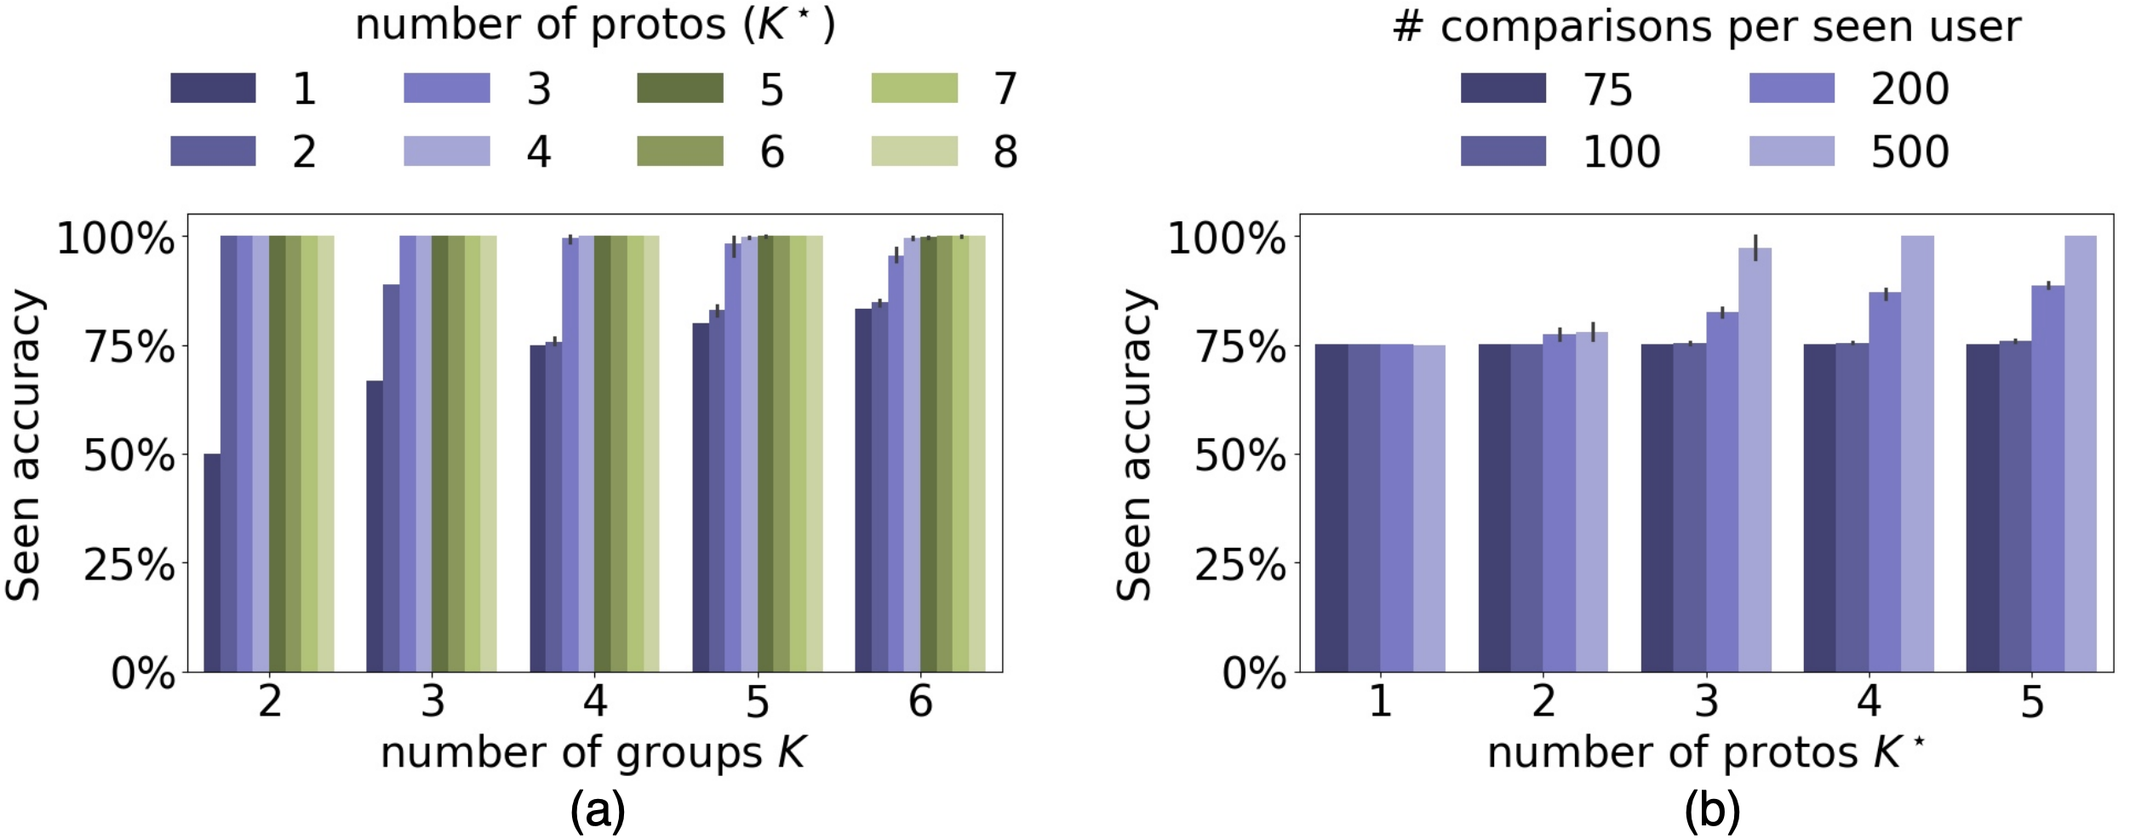
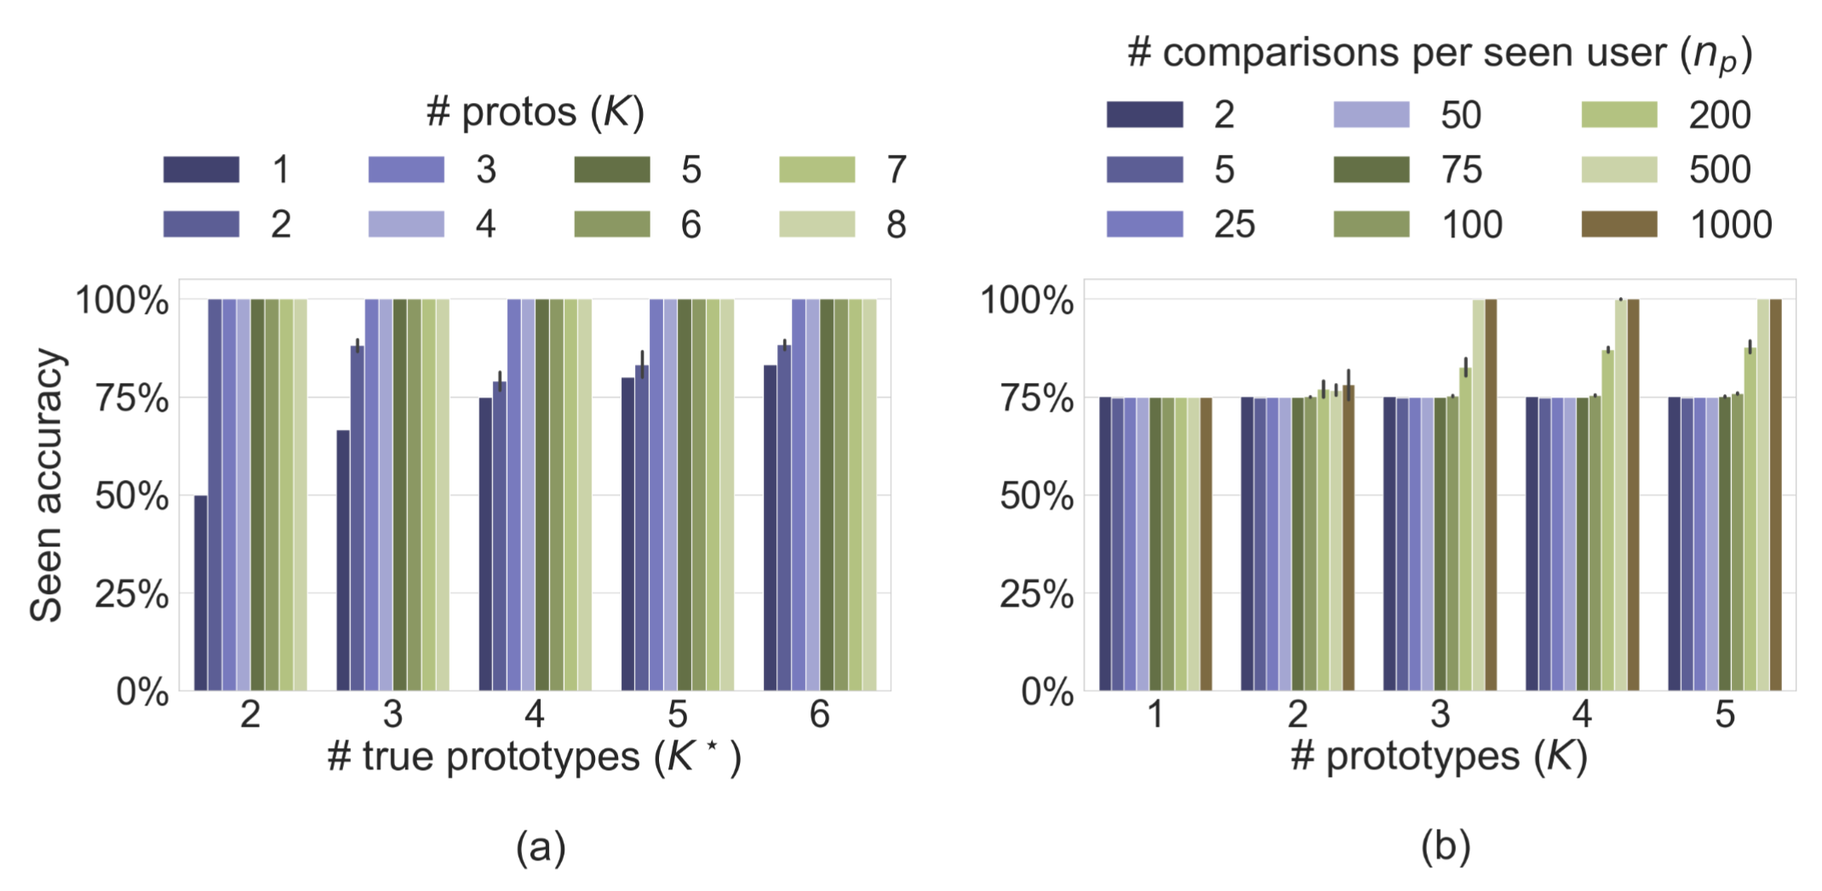
first round of edits

diff --git a/index.html b/index.html
@@ -76,7 +76,7 @@
               <a href="https://aniketrege.github.io/" target="_blank">Aniket Rege</a>,
             </span>
             <span class="author-block">
-              <a href="https://ramyakv.github.io/" target="_blank">Ramya Korakai Vinayak</a>
+              <a href="https://ramyakv.github.io/" target="_blank">Ramya Korlakai Vinayak</a>
             </span>
           </div>
           <!-- authors institute -->
@@ -111,7 +111,7 @@
                 </a>
               </span>
               <!-- Code Link. -->
-              <span class="link-block">
+              <!-- <span class="link-block">
                 <a href="https://github.com/ChenDaiwei-99/PAL-Pluralistic-Alignment-Framework"
                    class="external-link button is-normal is-rounded is-dark"
                    target="_blank"
@@ -121,7 +121,7 @@
                   </span>
                   <span>Code</span>
                   </a>
-              </span>
+              </span> -->
               <!-- Dataset Link. -->
               <span class="link-block">
                 <a href="https://huggingface.co/datasets/ramya-ml/pickapic-embeds"
@@ -146,10 +146,16 @@
   <div class="container is-max-desktop">
     <div class="hero-body">
       <h4 class="subtitle has-text-centered">
-        🔥<span style="color: #ff3860">[NEW!]</span> <b>PAL Framework</b> has been accepted by 2024 ICML workshop 
-        (<a href="https://sites.google.com/view/tf2m" target="_blank">TF2M</a> and <a href="https://sites.google.com/view/mhf-icml2024" target="_blank">MFHAIA</a>)
+        🔥<span style="color: #ff3860">[NEW!]</span> <b>PAL</b> has been accepted at 2024 ICML workshops:
+        <a href="https://sites.google.com/view/tf2m" target="_blank">TF2M</a> and <a href="https://sites.google.com/view/mhf-icml2024" target="_blank">MFHAIA</a>.
       </h4>
       <img src="./static/images/PAL-teaser.png" alt="Description of the image">
+      <p>
+        PAL is a framework designed to learn reward models for alignment that suit diverse, heterogeneous human preferences. For some user \(i\), the probability of 
+        preferring the left item \(x_l\) to right item \(x_r\) given conditioning \(x_c\) is given by reward model \(r_\theta\). PAL learns \(r_\theta\) with a mixture
+        modeling approach over \(K\) prototypes that represent \(K\) subgroups - this captures the shared structure of human preferences (subpopulations), while also 
+        suiting the specific differences between individual people.
+      </p>
     </div>
   </div>
 </section>
@@ -167,14 +173,14 @@
             These methods generally suffer from assuming a universal preference shared by all humans, which lacks the flexibility of adapting to plurality of opinions and preferences.
           </p> -->
           <p>
-            In this work, we propose PAL, a framework to model human preference complementary to existing pretraining strategies, which incorporates plurality from the ground up.
-            We propose using the ideal point model as a lens to view alignment using preference comparisons.
-            Together with our novel reformulation and using mixture modeling, our framework captures the plurality of population preferences while simultaneously learning a common preference latent space across different preferences, which can few-shot generalize to new, unseen users.
-            Our approach enables us to use the penultimate-layer representation of large foundation models and simple MLP layers to learn reward functions that are on-par with the existing large state-of-the-art reward models, thereby enhancing efficiency of reward modeling significantly. 
-            We show that PAL achieves competitive reward model accuracy compared to strong baselines on 1) Language models with Summary dataset ; 2) Image Generative models with Pick-a-Pic dataset ; 3) A new semisynthetic heterogeneous dataset generated using Anthropic Personas. 
+            We propose PAL, an alignment framework complementary to existing pretraining strategies, which is designed to model the diverse, heterogeneous nature (<em><a href="https://arxiv.org/abs/2402.05070">plurality</a></em>) of human preferences from the ground up.
+            Contrary to the status-quo paired preference <a href="https://www.jstor.org/stable/2334029">Bradley-Terry model</a> used by many popular LLMs and LVMs today, we reframe the alignment problem using <a href="https://psycnet.apa.org/record/1951-00045-001">Coombs' ideal point model</a> and a mixture modeling approach. 
+            PAL captures the plurality of the preferences of a population of users while simultaneously learning a shared preference latent space, which can few-shot generalize to new, unseen users.
+            PAL demonstrates the efficacy of cheap and efficient reward modeling - our approach learns reward functions via simple MLP layers (on top of the penultimate-layer dense representations learned by large pretrained foundation models) that are on-par with the existing large state-of-the-art reward models which are typically in the billion parameter regime. 
+            We show that PAL achieves competitive reward model accuracy compared to strong baselines on 1) Language models with OpenAI's <a href="https://github.com/openai/summarize-from-feedback">TL;DR dataset</a> ; 2) Text-to-Image models with the <a href="https://stability.ai/research/pick-a-pic">Pick-a-Pic dataset</a> ; 3) A new semi-synthetic heterogeneous dataset generated using <a href="https://www.evals.anthropic.com/">Anthropic Personas</a>. 
           </p>
           <p>
-            Finally, our experiments also highlight the shortcoming of current preference datasets that are created using rigid rubrics which wash away heterogeneity, and call for more nuanced data collection approaches.
+            Our experiments also highlight a key shortcoming of current preference datasets that are created using rigid rubrics which wash away heterogeneity, and we make a case for more nuanced data collection approaches.
           </p>
         </div>
       </div>
@@ -190,28 +196,78 @@
     <hr class="custom-line">
     <div class="columns is-centered">
       <div class="column is-six-fifths">
-        <h2 class="title is-3 has-text-centered"> <img src="./static/images/icon-yes-no.png" style="width: 5%; height: auto;">&nbsp; What is Ideal Point Model ?</h2>
+        <h2 class="title is-3 has-text-centered"> <img src="./static/images/icon-yes-no.png" style="width: 5%; height: auto;">&nbsp; What is the Ideal Point Model ?</h2>
         <img src="./static/images/ideal-point-model.png" alt="Description of the image">
         <p>
-          The ideal point model is a statistical model that is used to analyze the preferences of individuals or groups.
+          The ideal point model (<a href="https://psycnet.apa.org/record/1951-00045-001">Coombs, 1950</a>) is a statistical model that is used to analyze the preferences of individuals or groups.
           It is broadly used in political science, sociology, and economics to model the preferences of voters, legislators, or other decision-makers.
-          The ideal point model assumes that each individual has an ideal point in a multidimensional space, and that the individual's preference for a particular alternative is a function of <strong style="color: #ff3860;">the distance between the alternative and the individual's ideal point</strong>.
+          The ideal point model assumes that <strong style="color: #ff3860;">each individual has an "ideal point"</strong> in some high-dimensional space \(\mathbb{R}^d\), and that the individual's preference for a particular alternative 
+          is a function of <b>the distance between the alternative and the individual's ideal point</b>. The ideal point model is well suited for heterogeneous preference learning, which we discuss below.
         </p>
       </div>
     </div>
-    <hr class="custom-line">
+    <!-- <hr class="custom-line"> -->
     <div class="columns is-centered">
       <div class="column is-six-fifths">
-        <h2 class="title is-3 has-text-centered"><img src="./static/images/icon-user-group.png" style="width: 5%; height: auto;">&nbsp; Mixture Modeling on Heterogeneous Human Preference</h2>
+        <h2 class="title is-3 has-text-centered"><img src="./static/images/icon-user-group.png" style="width: 5%; height: auto;">&nbsp; PAL: Mixture Modeling for Heterogeneous Preferences</h2>
         <img src="./static/images/PAL-models.png" alt="Description of the image">
         <p>
-          In reality, different people can have different preferences that are not just noisy perturbations of a universal model. That is, people can differ in systematically different ways. However, there are shared aspects across subgroups of people, e.g., owing to demographics, educational, socio-cultural, or other types of similarities. We propose a framework to capture human preferences by considering these differences and similarities 
-          by modeling the preferences of individuals with a low-rank model. In particular, we use <strong style="color: #ff3860;">a mixture modeling approach</strong> for capturing diverse preferences where we model each user as a convex combination of K prototypes. 
+          In reality, different people can have different preferences that are not just noisy perturbations of a universal model, i.e. <strong style="color: #ff3860;">people can differ in systematically different ways</strong>! 
+          People's preferences are not completely unique - there are shared aspects of preferences within <em>subgroups</em> of people, for example owing to similar demographics and educational, socio-cultural, or other types of similarities. 
+          PAL is designed to suit this structure of human preferences - in particular, we use <b>a mixture modeling approach</b> to capture diverse individual preferences across <b>\(K\) subgroups</b>, where each user's preference (ideal point) is a convex combination of:
+        </p>
+        <p>
+          <ul>
+            <li><b><br>&nbsp;Model A</b>: \(K\) prototypical ideal points.</li>
+            <li><b>&nbsp;Model B</b>: \(K\) protypical functions mapping input prompts to ideal points.</li>
+          </ul>
+        </p>
+        <p>
+          <br> Here the \(K\) prototypes represent the shared structure across subpopulations, while each users' weights \(W\) over the prototypes represent their individuality.
         </p>
       </div>
     </div>
     <hr class="custom-line">
-    <h2 class="title is-3 has-text-centered"><img src="./static/images/icon-dataset.png" style="width: 5%; height: auto;">&nbsp; Heterogeneous Semi-Synthetic Datasets</h2>
+    <h2 class="title is-3 has-text-centered"><img src="./static/images/icon-gaussian.png" style="width: 5%; height: auto;">&nbsp; Experiments: Gaussian Synthetic Dataset</h2>
+    <h3 class="title is-5 ">Hypothesis: if we create a synthetic dataset with a "ground truth" subpopulation structure (injecting heterogeneity), PAL should be able to learn these groups well.</h3>
+    <div class="columns is-centered">
+      <div class="column is-six-fifths">
+        <p>
+          Assume \( K^* \) "true" user prototypes \(\{\mathbf{p}_i\}_{i=1}^{K^*}\), where \(\mathbf{p}_i \sim \mathcal{N}(0,(1/d)I)\). We consider two settings: 
+        </p>
+        <br>
+        <p>
+          <ul>
+            <li>&nbsp;&nbsp; 1) <strong>Mixture</strong> setting: each user is located in the convex hull of \( K \) learned prototypes</li>
+            <li>&nbsp;&nbsp; 2) <strong>Partition</strong> setting: \( N \) users are evenly sampled from \( K \) learned prototypes, with \(\mathbf{a}_i \in \{\mathbf{p}_k\}_{k=1}^{K}\)</li>
+          </ul>
+        </p>
+        <br>
+        <p>
+          Each sample is generated as follows: we randomly draw two items \(\{\mathbf{x}_l, \mathbf{x}_r\}\) and one user \(\mathbf{a}_i\), and label the user's preference as \(\text{sign}(\|f^*(\mathbf{x}_l)-f^*(\mathbf{a}_i)\|_2-\|f^*(\mathbf{x}_r)-f^*(\mathbf{a}_i)\|_2)\). 
+          We generate a total of \( n \) samples per user to learn the user's ideal point. We use model A with a single-layer MLP (without bias) with hinge loss and evaluate on the held-out test set, which we split into two disjoint sets:
+          <ul>
+            <li><br>&nbsp;&nbsp; 1) <strong>Seen user</strong>: user who provides labeled preferences in train and test set.</li>
+            <li>&nbsp;&nbsp; 2) <strong>Unseen user</strong>: user who provides labeled preferences in test set but not train set.</li>
+          </ul>
+        </p>
+        <br>
+        <h4 class="title is-5 ">Results:</h4>
+        <img src="./static/images/gaussian-performance.png">
+        <p>
+          <ul>
+            <li>&nbsp;(a) <b>Learnability</b>: PAL can align the <strong style="color: #ff8838;">learned</strong> and <strong style="color: #383bff;">true</strong> user ideal points in the representation space \(\mathbb{R}^3\).</li>
+            <li>&nbsp;(b) <b>Adapting to Plurality</b>: a PAL <strong style="color: #f7af79;">homogeneous</strong> reward model (\( K = 1 \)) is suboptimal when <strong style="color: #6605c1;">diverse preferences</strong> exist (\( K^* \gt 1 \)). 
+            When we allow for learning plurality by setting \( K \gt 1 \), PAL enables a significant 5-7% accuracy gain. </li>
+            <li>&nbsp;(c) <b>Sample Complexity</b>: as we increase # training samples for seen users, PAL achieves higher test accuracy, and is also more accurate in capturing # true prototypes in the dataset (accuracy peaks at \( K = K^* \)).</li>
+            <li>&nbsp;(d) <b>Generalization</b>: for unseen users (users not in the train set), PAL can generalize to accurately predict preferences with \( \sim 50 \) labeled examples.</li>
+          </ul>
+        </p>
+      </div>
+    </div>
+    <hr class="custom-line">
+    <h2 class="title is-3 has-text-centered"><img src="./static/images/icon-dataset.png" style="width: 5%; height: auto;">&nbsp; Experiments: Heterogeneous Semi-Synthetic Datasets</h2>
+    <h3 class="title is-5 ">Hypothesis: if we synthetically inject diverse preferences into real datasets, PAL should still be able to learn these groups reasonably well.</h3>
     <div class="columns is-centered">
       <div class="column is-half">
         <h5 class="title is-5 has-text-centered"><em>Persona</em> <text style="font-size: small;">dataset</text></h5>
@@ -219,19 +275,19 @@
           <img src="./static/images/persona.png" alt="Description of the image" style="max-height: 100%; max-width: 100%;">
         </div>
         <p>
-          The Anthropic Personas dataset comprises a collection of personalities, each associated with 500 statements that align with the persona and 500 statements that do not.
+          The <a href="https://www.evals.anthropic.com/">Anthropic Personas</a> dataset contains a collection of personalities or personas, each associated with 500 statements that align with the persona and 500 statements that do not.
           <br> <br>
-          We utilize this dataset to create a heterogeneous preference dataset by sampling pairs of persona statements and imitating the preference choices of human groups with diverse personality preferences.
+          We create a heterogeneous preference dataset by sampling pairs of persona statements and imitating the preference choices of subpopulation groups with diverse personality preferences.
         </p>
         <hr class="custom-line-dashed">
         <p>
-          <img src="./static/images/icon-performance.png" style="width: 4%; height: auto;">&nbsp; <strong>Performance</strong>: 
+          <img src="./static/images/icon-performance.png" style="width: 4%; height: auto;">&nbsp; <strong>Results</strong>: 
           <div class="is-flex is-align-items-center is-justify-content-center" style="height: 200px;">
             <img src="./static/images/persona-performance.png" alt="Description of the image" style="max-height: 100%; max-width: 100%;">
           </div>
           <p>
-            Figure (a, b) illustrates the generalization performance of PAL on the heterogeneous persona dataset. 
-            We observe that <strong style="color: #ff3860;">as \(K \to K^\star\), the seen accuracy increases to \(100\%\)</strong> given a sufficient number of users and number of comparisons per user. Figure (b) also shows that as we get more comparisons per user, we achieve reasonable preference prediction accuracy
+            (a) On the heterogeneous persona dataset, we observe that as # learned prototypes approach the # true prototypes, i.e. <strong style="color: #ff3860;">\(K \to K^\star\), the seen accuracy increases to \(100\%\)</strong> 
+            given a sufficient number of users and number of comparisons per user ; (b) As we get more comparisons per seen user \(n_p\), PAL eventually saturates to 100% accuracy ( when \(K\geq K^\star=3\))
           </p>
         </p>
       </div>
@@ -241,13 +297,13 @@
           <img src="./static/images/pick-a-filter.png" alt="Description of the image" style="max-height: 100%; max-width: 100%;">
         </div>
         <p>
-          The Pick-a-Pic dataset is a large, open dataset for human feedback in text-to-image generation, designed to align pre-trained models with human preferences.
+          The <a href="https://stability.ai/research/pick-a-pic">Pick-a-Pic dataset</a> is a large, crowdsourced open dataset of human preferences over text-to-image generation, designed to align pre-trained models with human preferences.
           <br> <br>
-          We construct the Pick-a-Filter dataset by adding various color filters to the generated images, thereby explicitly incorporating diverse user preferences into the Pick-a-Pic V1 dataset.
+          We construct the Pick-a-Filter dataset by assuming two subpopulation groups that prefer warm (red) or cool (blue) tones. We apply simple color filters to Pick-a-Pic V1 to semi-synthetically inject this heterogeneity.
         </p>
         <hr class="custom-line-dashed">
         <p>
-          <img src="./static/images/icon-performance.png" style="width: 4%; height: auto;">&nbsp; <strong>Performance</strong>: 
+          <img src="./static/images/icon-performance.png" style="width: 4%; height: auto;">&nbsp; <strong>Results</strong>: 
           <div class="is-flex is-align-items-center is-justify-content-center" style="height: 200px;">
             <img src="./static/images/pick-a-filter-performance.png" alt="Description of the image" style="max-height: 100%; max-width: 100%;">
           </div>
@@ -255,40 +311,9 @@
             <!-- We train our proposed reward model, PAL Model-B (PAL-B), on the Pick-a-Filter dataset with different mixture ratio and number of prototypes.
             PAL-B effectively captures diverse preferences across mixture ratios in Pick-a-Filter. -->
             <!-- <br><br> -->
-            The figure illustrates that PAL enables learning beyond a universal preference \(K^* > 1\) to identify diverse user preference groups. 
-            We observe that
-            <strong style="color: #ff3860;">PAL significantly outperforms the homogeneous reward model</strong> in predicting user preferences -- at a mixture ratio of 1, PAL achieves <strong style="color: #ff3860;">\(95.2\%\) </strong> test accuracy compared to \(75.4\%\) from the homogeneous reward model.
+            PAL enables learning beyond a universal preference \(K^* > 1\) to identify diverse user preference groups. 
+            We observe that <strong style="color: #ff3860;">PAL significantly outperforms the homogeneous reward model</strong> in predicting user preferences - at a mixture ratio of 1, PAL achieves <strong>\(95.2\%\) </strong> test accuracy compared to \(75.4\%\) from the homogeneous reward model (\(K=1\)).
           </p>
-        </p>
-      </div>
-    </div>
-    <hr class="custom-line">
-    <h2 class="title is-3 has-text-centered"><img src="./static/images/icon-gaussian.png" style="width: 5%; height: auto;">&nbsp; Simulation Experiment: Gaussian Synthetic Dataset</h2>
-    <div class="columns is-centered">
-      <div class="column is-six-fifths">
-        <p>
-          Assume \( K^* \) user prototypes \(\{\mathbf{p}_i\}_{i=1}^{K^*}\), where \(\mathbf{p}_i \sim \mathcal{N}(0,(1/d)I)\). We consider two settings: 
-        </p>
-        <br>
-        <p>
-          &nbsp;&nbsp; 1) a <strong>mixture</strong> setting, where we assume each user is located in the convex hull of \( K \) prototypes;
-        </p>
-        <p>
-          &nbsp;&nbsp; 2) a simpler <strong>partition</strong> setting, where we assume \( N \) users are evenly sampled from \( K \) prototypes, with \(\mathbf{a}_i \in \{\mathbf{p}_k\}_{k=1}^{K}\). 
-        </p>
-        <br>
-        <p>
-          Each sample is generated as follows: we randomly draw two items \(\{\mathbf{x}_l, \mathbf{x}_r\}\) and one user \(\mathbf{a}_i\), and label the user's preference as \(\text{sign}(\|f^*(\mathbf{x}_l)-f^*(\mathbf{a}_i)\|_2-\|f^*(\mathbf{x}_r)-f^*(\mathbf{a}_i)\|_2)\). 
-          We generate a total of \( n \) samples per user to learn the user's ideal point. We use model A with a single-layer MLP (without bias) with hinge loss and evaluate on the held-out test set.
-        </p>
-        <br>
-        <img src="./static/images/gaussian-performance.png">
-        <p>
-          Figure (a) shows that PAL can align the user ideal points to the true user ideal points in the representation space. 
-          Figure (b) shows that the homogeneous reward model (# prototypes = 1) can only achieve sub-optimal performance on the simulated dataset when diverse preferences exist. 
-          When we learn pluralistic preferences by setting multiple learnable prototypes with PAL, we gain a significant 7% accuracy boost. 
-          Figure (c) shows that as we increase the number of training samples for seen users, PAL achieves higher test accuracy, and is also more accurate in capturing the true number of prototypes in the dataset (which we know from simulations).
-          Figure (d) shows that even for the unseen users (new users not in the training set), PAL can effectively generalize to accurately predict preferences with fewer examples.
         </p>
       </div>
     </div>
@@ -307,18 +332,12 @@
 <section class="section" id="BibTeX">
   <div class="container is-max-desktop content">
     <h2 class="title">BibTeX</h2>
-    <pre>
-      <code>@misc{
-          chen2024pal,
-          title={PAL: Pluralistic Alignment Framework for Learning from Heterogeneous Preferences}, 
-          author={Daiwei Chen and Yi Chen and Aniket Rege and Ramya Korlakai Vinayak},
-          year={2024},
-          eprint={2406.08469},
-          archivePrefix={arXiv},
-          primaryClass={id='cs.LG' full_name='Machine Learning' is_active=True alt_name=None in_archive='cs' is_general=False description='Papers on all aspects of machine learning research (supervised, unsupervised, reinforcement learning, bandit problems, and so on) including also robustness, explanation, fairness, and methodology. cs.LG is also an appropriate primary category for applications of machine learning methods.'}
-        }
-      </code>
-    </pre>
+    <pre><code>@article{chen2024pal,
+        title={PAL: Pluralistic Alignment Framework for Learning from Heterogeneous Preferences},
+        author={Chen, Daiwei and Chen, Yi and Rege, Aniket and Vinayak, Ramya Korlakai},
+        journal={arXiv preprint arXiv:2406.08469},
+        year={2024}
+      }</code></pre>
   </div>
 </section>
 
@@ -330,7 +349,7 @@
         This work was supported by <b>NSF grants NCS-FO 2219903</b> and <b>NSF CAREER Award CCF 2238876</b>.
       </p>
       <p>
-        <b>Usage and License Notices</b>: The data, code and checkpoint is intended and licensed for research use only.
+        <b>Usage and License Notice</b>: The data, code and model checkpoints are intended for research use.
       </p>
   </div>
 </section>
